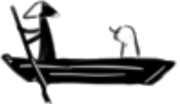
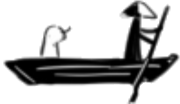
PLayer flips to movement direction

diff --git a/Afterlife/Engine/Private/Sprite.cpp b/Afterlife/Engine/Private/Sprite.cpp
@@ -25,7 +25,7 @@ Sprite::~Sprite()
     SDL_DestroyTexture(sprite);
 }
 
-void Sprite::Render(Vector2 location, SDL_Rect* clip) const
+void Sprite::Render(Vector2 location, SDL_Rect* clip, SDL_RendererFlip flip) const
 {
     SDL_Rect renderQuad = {location.x, location.y, size.x, size.y};
 
@@ -35,5 +35,5 @@ void Sprite::Render(Vector2 location, SDL_Rect* clip) const
         renderQuad.h = clip->h;
     }
 
-    SDL_RenderCopyEx(Application::Get()->GetWindow()->GetRenderer(), sprite, clip, &renderQuad, 0.f, nullptr, SDL_FLIP_NONE);
+    SDL_RenderCopyEx(Application::Get()->GetWindow()->GetRenderer(), sprite, clip, &renderQuad, 0.f, nullptr, flip);
 }

diff --git a/Afterlife/Source/Private/Player.cpp b/Afterlife/Source/Private/Player.cpp
@@ -25,6 +25,8 @@ void Player::Tick(float deltaTime)
 
     if (keyStates[SDL_SCANCODE_A] == 1)
     {
+        flip = SDL_FLIP_HORIZONTAL;
+        
         if (location.x - deltaSpeed > 0 + 640)
         {
             location.x -= static_cast<int>(deltaSpeed);
@@ -32,6 +34,8 @@ void Player::Tick(float deltaTime)
     }
     if (keyStates[SDL_SCANCODE_D] == 1)
     {
+        flip = SDL_FLIP_NONE;
+        
         if (location.x + deltaSpeed < 3200 - 640 - sprite->GetWidth())
         {
             location.x += static_cast<int>(deltaSpeed);

diff --git a/Afterlife/Engine/Private/Actor.cpp b/Afterlife/Engine/Private/Actor.cpp
@@ -4,7 +4,7 @@
 #include "Sprite.h"
 
 Actor::Actor(std::string path)
-    : location(Vector2(0, 0)), collider()
+    : location(Vector2(0, 0)), collider(), flip(SDL_FLIP_NONE)
 {
     sprite = new Sprite(path);
 }
@@ -35,7 +35,7 @@ void Actor::Render(Camera* camera)
         };
     }
 
-    sprite->Render(location - camera->GetLocation());
+    sprite->Render(location - camera->GetLocation(), nullptr, flip);
 
 #ifdef AE_DEBUG
     SDL_RenderDrawRect(Application::Get()->GetRenderer(), &collider);

diff --git a/Afterlife/Engine/Public/Sprite.h b/Afterlife/Engine/Public/Sprite.h
@@ -14,7 +14,7 @@ public:
     Sprite(std::string path);
     ~Sprite();
 
-    void Render(Vector2 location, SDL_Rect* clip = nullptr) const;
+    void Render(Vector2 location, SDL_Rect* clip = nullptr, SDL_RendererFlip flip = SDL_FLIP_NONE) const;
     
     int GetWidth() const { return size.x; }
     int GetHeight() const { return size.y; }

diff --git a/Afterlife/Engine/Public/Actor.h b/Afterlife/Engine/Public/Actor.h
@@ -1,6 +1,7 @@
 #pragma once
 
 #include <SDL_events.h>
+#include <SDL_render.h>
 #include <string>
 
 #include "CollisionBox.h"
@@ -15,7 +16,8 @@ protected:
     Vector2 location;
     Sprite* sprite;
     SDL_Rect collider;
-    
+
+    SDL_RendererFlip flip;
     bool updateCollider = true;
     
 public:
